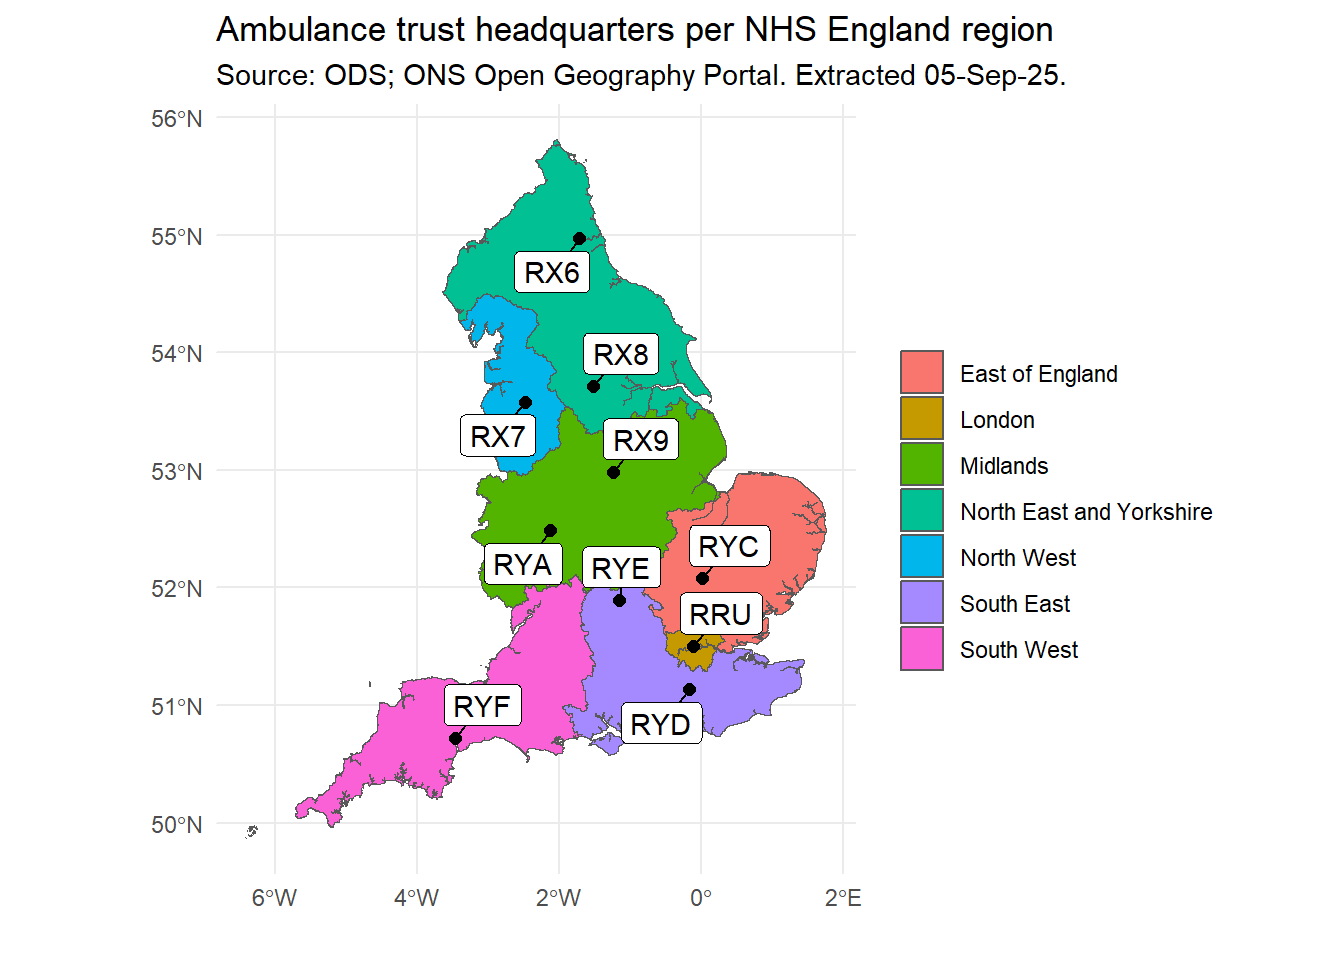
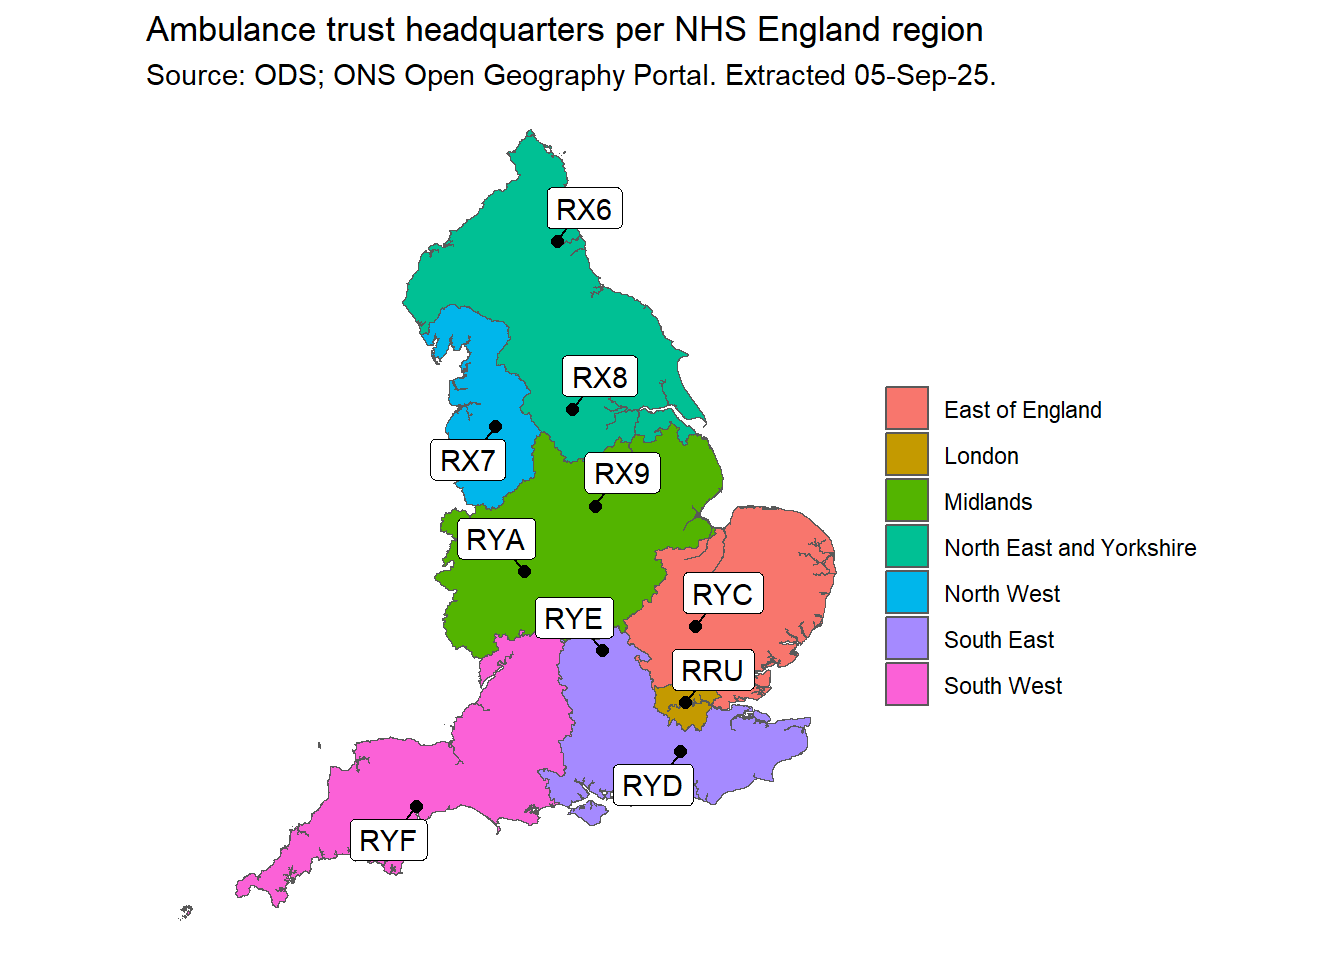
Updated plot

diff --git a/plotting_postcodes.html b/plotting_postcodes.html
@@ -212,7 +212,7 @@ Geodetic CRS:  WGS 84</code></pre>
 <span id="cb9-7"><a href="#cb9-7" aria-hidden="true" tabindex="-1"></a>    <span class="at">stat =</span> <span class="st">'sf_coordinates'</span>,</span>
 <span id="cb9-8"><a href="#cb9-8" aria-hidden="true" tabindex="-1"></a>    <span class="at">min.segment.length =</span> <span class="fu">unit</span>(<span class="dv">0</span>, <span class="st">'lines'</span>),</span>
 <span id="cb9-9"><a href="#cb9-9" aria-hidden="true" tabindex="-1"></a>  ) <span class="sc">+</span></span>
-<span id="cb9-10"><a href="#cb9-10" aria-hidden="true" tabindex="-1"></a>  <span class="fu">theme_minimal</span>() <span class="sc">+</span> </span>
+<span id="cb9-10"><a href="#cb9-10" aria-hidden="true" tabindex="-1"></a>  <span class="fu">theme_void</span>() <span class="sc">+</span> </span>
 <span id="cb9-11"><a href="#cb9-11" aria-hidden="true" tabindex="-1"></a>  <span class="fu">labs</span>(<span class="at">title =</span> <span class="st">'Ambulance trust headquarters per NHS England region'</span>,</span>
 <span id="cb9-12"><a href="#cb9-12" aria-hidden="true" tabindex="-1"></a>       <span class="at">subtitle =</span> <span class="st">'Source: ODS; ONS Open Geography Portal. Extracted 05-Sep-25.'</span>,</span>
 <span id="cb9-13"><a href="#cb9-13" aria-hidden="true" tabindex="-1"></a>       <span class="at">fill =</span> <span class="st">''</span>,</span>
